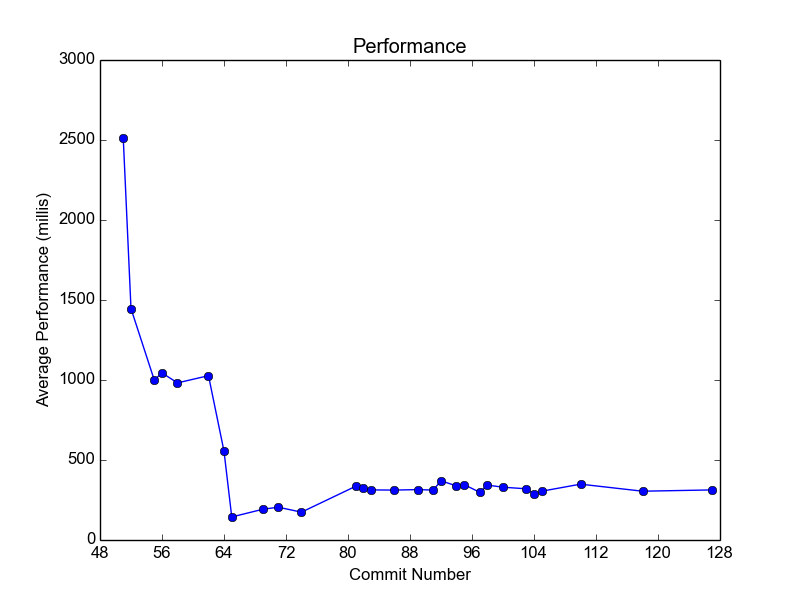
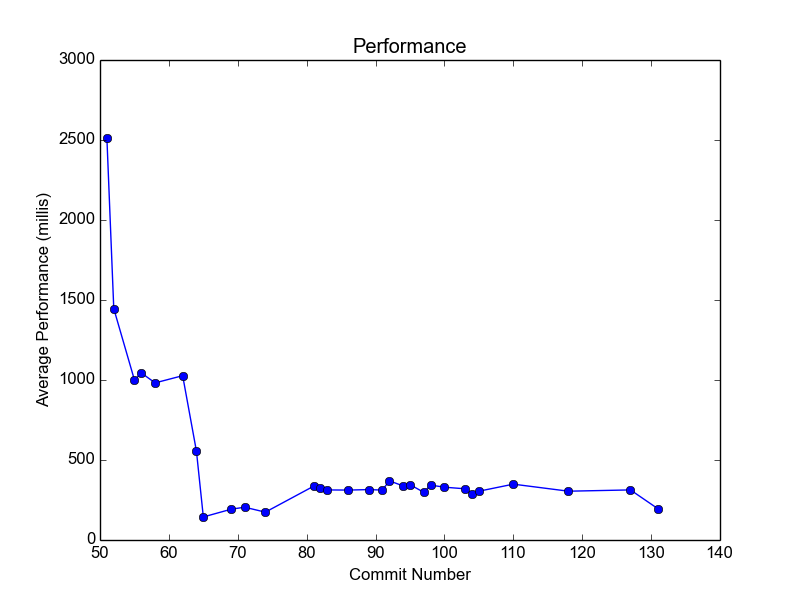
Fixed #4 by added lrand_r.  Also, performance time has halved, not sure why.  Down to pre-hashing levels.  Maybe my computer is just having a good day, but will check on travis

diff --git a/uct.c b/uct.c
@@ -305,7 +305,7 @@ void defaultPolicyAndBackup(int rootTurn, State *state, UctNode *v, int lengthOf
 	assert(threads >= 1);  // Otherwise, this is bad
 
 	if (threads == 1) {  // Then no need to do pthread stuff
-		RewardData *rewardData = simulate(rootTurn, state, lengthOfGame, v, raveV);
+		RewardData *rewardData = simulate(rootTurn, state, lengthOfGame, v, raveV, NULL);  // NULL for just using rand()
 		rewardBackup(v, rewardData);  // Backs up on all the moves in rewardData->moves (NULL if no AMAF)
 		destroyRewardData(rewardData);  // rewardData->moves = NULL if no RAVE
 		rewardData = NULL;
@@ -344,7 +344,7 @@ void defaultPolicyAndBackup(int rootTurn, State *state, UctNode *v, int lengthOf
 
 
 // Maybe rename to rollout ^^^
-RewardData *simulate(int rootTurn, State *state, int lengthOfGame, UctNode *v, int raveV) {
+RewardData *simulate(int rootTurn, State *state, int lengthOfGame, UctNode *v, int raveV, struct drand48_data *randBuf) {
 	int color = state->turn;
 
 	RewardData *rewardData = createRewardData();
@@ -358,7 +358,17 @@ RewardData *simulate(int rootTurn, State *state, int lengthOfGame, UctNode *v, i
 			int randomMove = -3;  // Initializing to something bad
 			// Now keeps guessing until finds legal move.  Might be bad...
 			do {
-				randomMove = rand() % (BOARD_SIZE+1);  // This will need to have a seed once we do parallel ^^^^ Holy bejeezus, I'm not doing this
+				int randomNumber = -1;
+				if (randBuf) {
+					long int result = 0;
+					lrand48_r(randBuf, &result);
+					randomNumber = (int)result;
+					randomNumber = randomNumber < 0 ? -1*randomNumber : randomNumber;  // Need to make sure it's positive
+				} else {
+					randomNumber = rand();
+				}
+
+				randomMove = randomNumber % (BOARD_SIZE+1);  // This will need to have a seed once we do parallel ^^^^ Holy bejeezus, I'm not doing this
 				if (randomMove == BOARD_SIZE) {  // This represented a pass
 					randomMove = MOVE_PASS;
 				}
@@ -421,15 +431,26 @@ RewardData *simulate(int rootTurn, State *state, int lengthOfGame, UctNode *v, i
 
 void *defaultPolicyWorker(void *args) {
 	DefaultPolicyWorkerInput *dpwi = (DefaultPolicyWorkerInput *)args;
+	
+	// First calcuates its random seed
+	struct timeval tv;
+	gettimeofday(&tv, NULL);
+	double timeInMillis = (tv.tv_sec)*1000 + (tv.tv_usec)/100;
+	long int seed = (long int)timeInMillis + dpwi->tid;  // tid makes all the seeds distinct
+
+	// Now initializes random buffer
+	struct drand48_data randBuf;
+	srand48_r(seed, &randBuf);
+
 	while (!dpwi->shouldDie) {
 		if (dpwi->shouldProcess) {
 			int rootTurn = dpwi->rootTurn;
 			State *state = dpwi->state;
 			int lengthOfGame = dpwi->lengthOfGame;
 			UctNode *v = dpwi->v;
-			int raveV = dpwi->raveV;
+			int raveV = dpwi->raveV;  // This, for example, doesn't need to get read every time
 
-			dpwi->rewardData = simulate(rootTurn, state, lengthOfGame, v, raveV);
+			dpwi->rewardData = simulate(rootTurn, state, lengthOfGame, v, raveV, &randBuf);
 
 			// "Unlocking"
 			dpwi->shouldProcess = 0;  // Must wait for the caller to set this

diff --git a/uct.h b/uct.h
@@ -10,7 +10,8 @@
 #include <assert.h>
 #include <pthread.h>
 #include <unistd.h>  // Will eventually use this to time the threads for logging
-#include <sched.h>
+#include <sched.h>  // ?
+#include <sys/time.h>
 
 #include "dbg.h"
 #include "state.h"
@@ -101,7 +102,8 @@ void defaultPolicyAndBackup(int rootTurn, State *state, UctNode *v, int lengthOf
 
 // Simulates the rest of game (the original defaultPolicy in the paper.  Either called serially or in parallel)
 // If raveV != 0, then RewardData will contain the moves in the rollout for RAVE calculation
-RewardData *simulate(int rootTurn, State *state, int lengthOfGame, UctNode *v, int raveV);
+// If drand48_data == NULL, then regular rand will be used.  Otherwise, lrand48_r will be used
+RewardData *simulate(int rootTurn, State *state, int lengthOfGame, UctNode *v, int raveV, struct drand48_data *randBuf);
 
 // Single worker for defaultPolicy.  args will be cast to DefaulPolicyWorkerInput
 // It is the responsibility of the caller to free args
